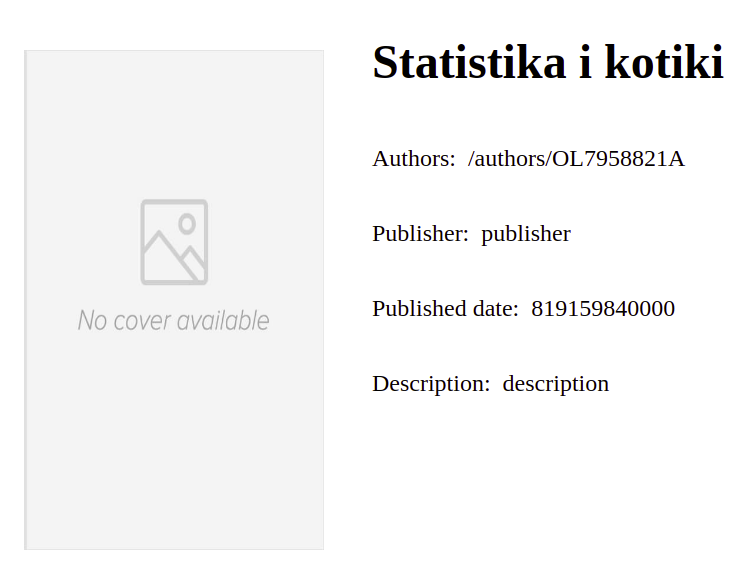
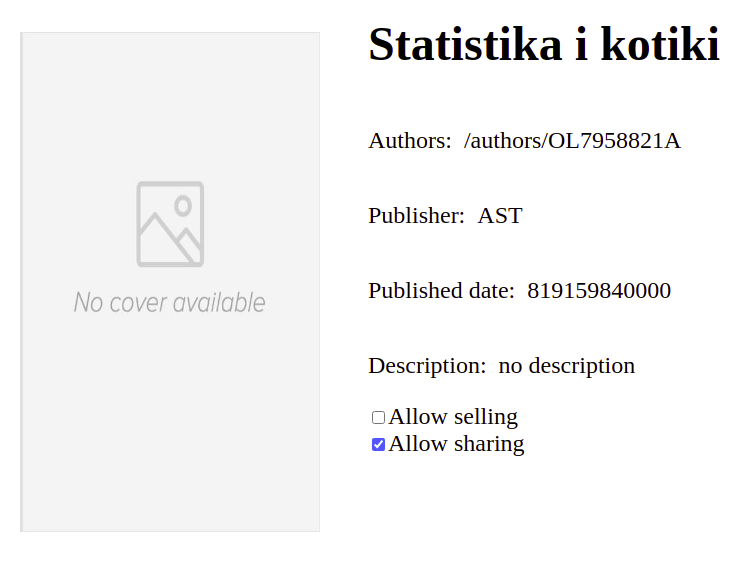
update readme

diff --git a/README.md b/README.md
@@ -70,6 +70,8 @@ By clicking on the book name from the list you will get the book page with detai
 
 ![book_input](front/screens/screen_manual_book_page.png)
 
+On this page you can set up the selling and sharing status to allow other user to borrow or buy your book
+
 ## Process organisation
 #### Team
 - Daniyar Galimzhanov - frontend
@@ -127,7 +129,7 @@ Task | Small tasks | Acceptance tests | Status |
 Sprint 1 |  |  |  |
 | Add ability to identify book with Isbn | Create the Isbn search field in frontend | Tests coverage at least 80% | Done |
 |  | Connect the scaner with the database of Isbns | It detects 20% of example books |  Done |
-| Create the book card | Save information about the book in db | All CRD operations work | Done |
+| Create the book card | Save information about the book in db | All create/read operations work | Done |
 |  | Display info from db on the book page | Title and Author should be filled | Done |
 
 #### Sprint 2
